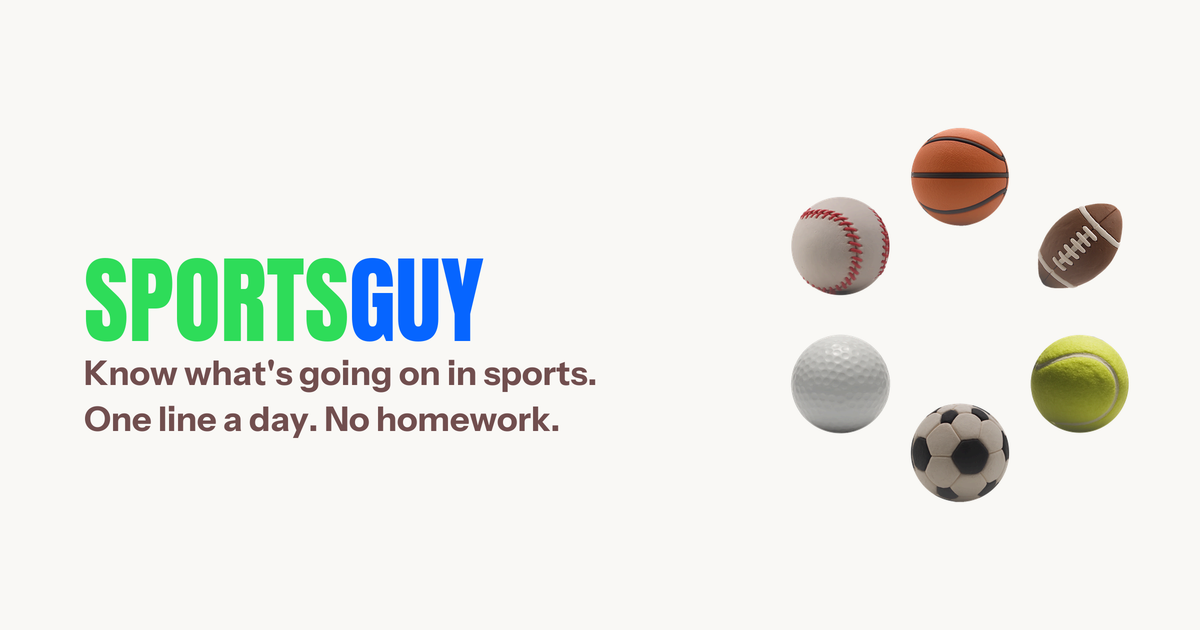
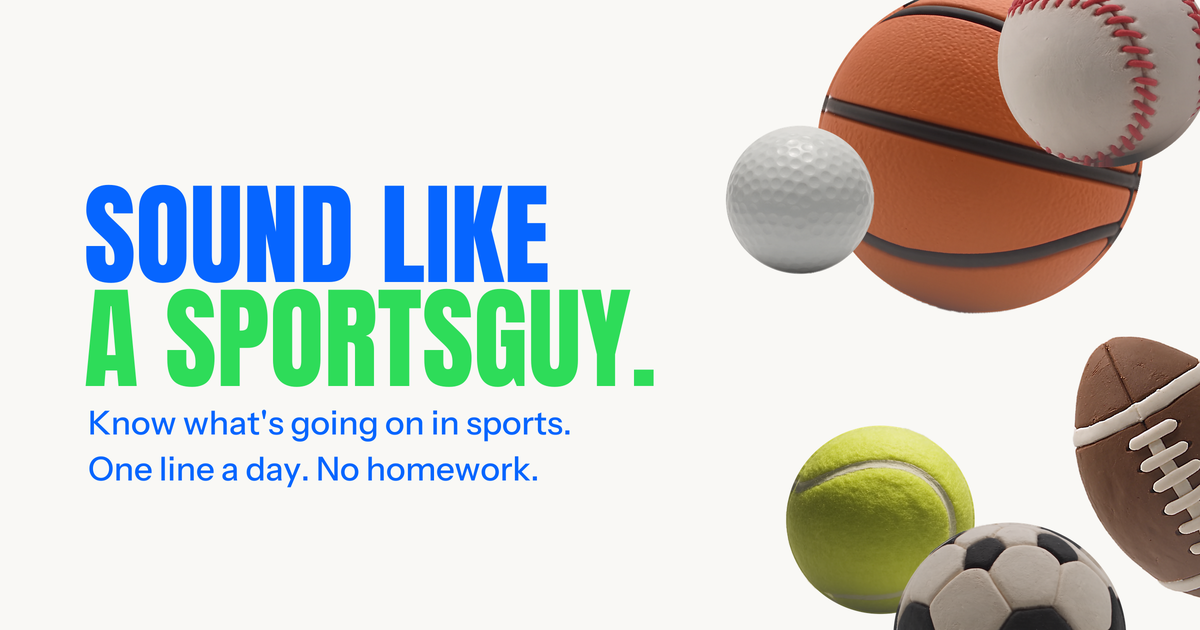
Put the App Store look on the link preview
The card a pasted link unfurls into is the advert, so it now uses the same
language as the screens: Anton headline in blue with the punchline in green,
clay arriving from the edges and cut by the frame, cream ground. The subcopy
was accidentally set in Instrument Serif because the filename filter matched
it; it is Instrument Sans like everywhere else.

Claude-Session: https://claude.ai/code/session_01G6ijpr2Xsj8VaLdNGr9HMP

diff --git a/index.html b/index.html
@@ -12,7 +12,7 @@
     
     <!-- Social sharing / Open Graph -->
     <meta property="og:title" content="SportsGuy">
-    <meta property="og:description" content="Know what's going on in sports. One line a day, in plain English. No homework.">
+    <meta property="og:description" content="Know what's going on in sports. One line a day. No homework.">
     <meta property="og:image" content="https://sportsguy.xyz/icons/share-card.png">
     <meta property="og:image:width" content="1200">
     <meta property="og:image:height" content="630">
@@ -21,9 +21,9 @@
     <meta property="og:url" content="https://sportsguy.xyz">
     <meta name="twitter:card" content="summary_large_image">
     <meta name="twitter:title" content="SportsGuy">
-    <meta name="twitter:description" content="Know what's going on in sports. One line a day, in plain English. No homework.">
+    <meta name="twitter:description" content="Know what's going on in sports. One line a day. No homework.">
     <meta name="twitter:image" content="https://sportsguy.xyz/icons/share-card.png">
-    <meta name="description" content="Know what's going on in sports. One line a day, in plain English. No homework.">
+    <meta name="description" content="Know what's going on in sports. One line a day. No homework.">
     
     <!-- Google Fonts: Instrument Sans + Instrument Serif + Anton + Inter Tight -->
     <link rel="preconnect" href="https://fonts.googleapis.com">
